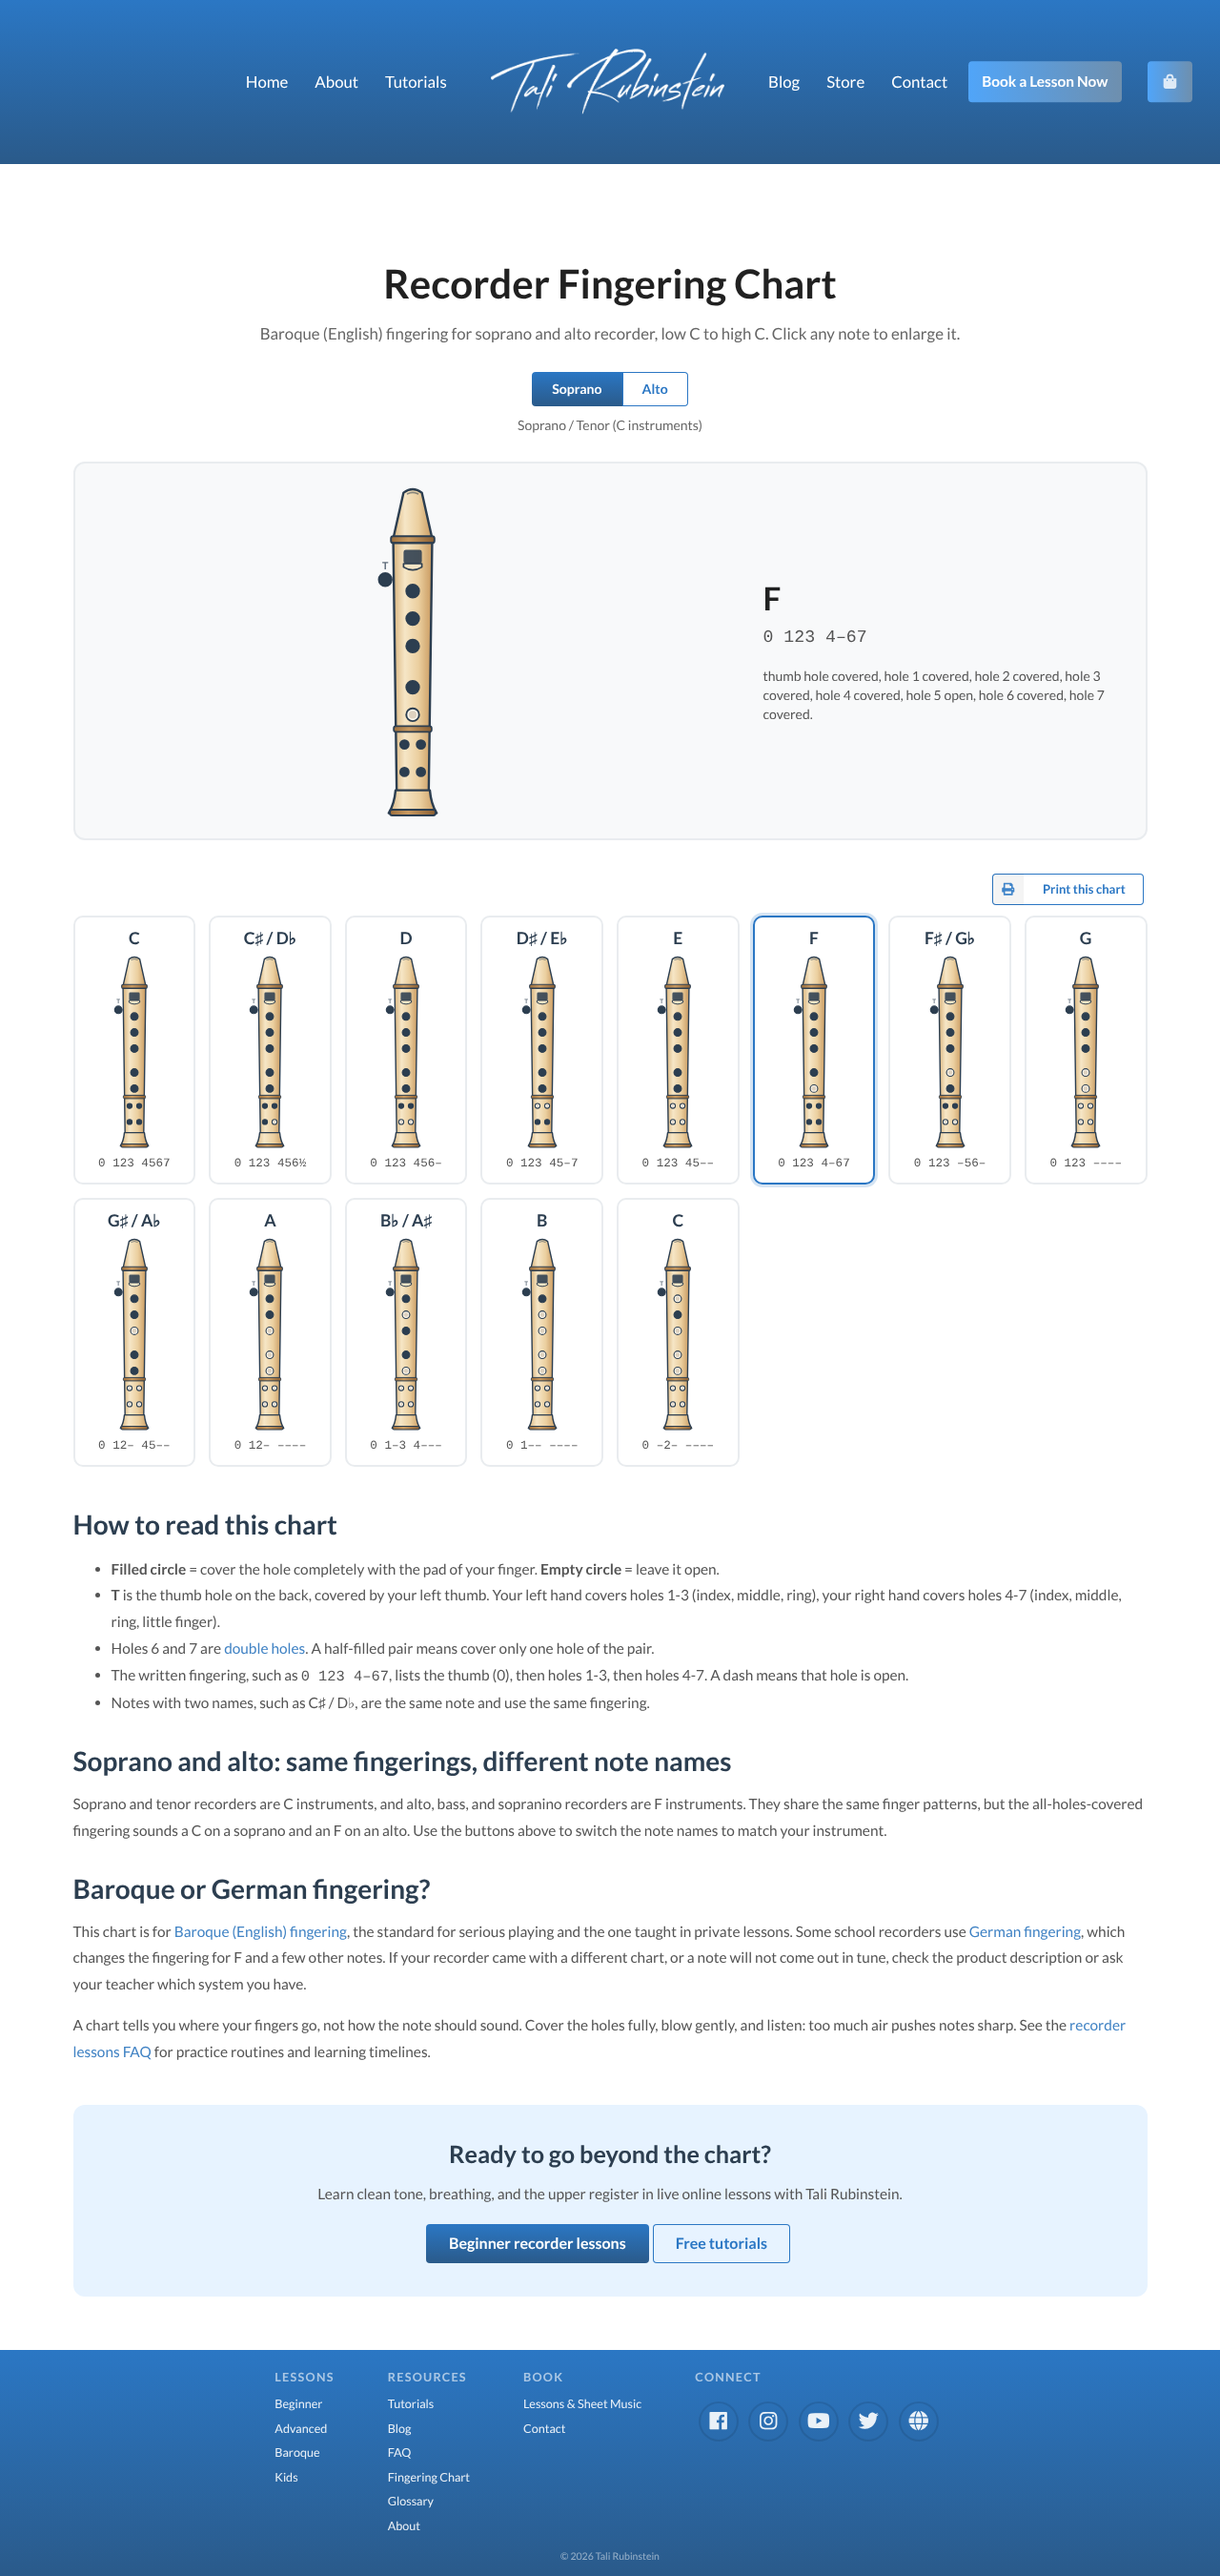
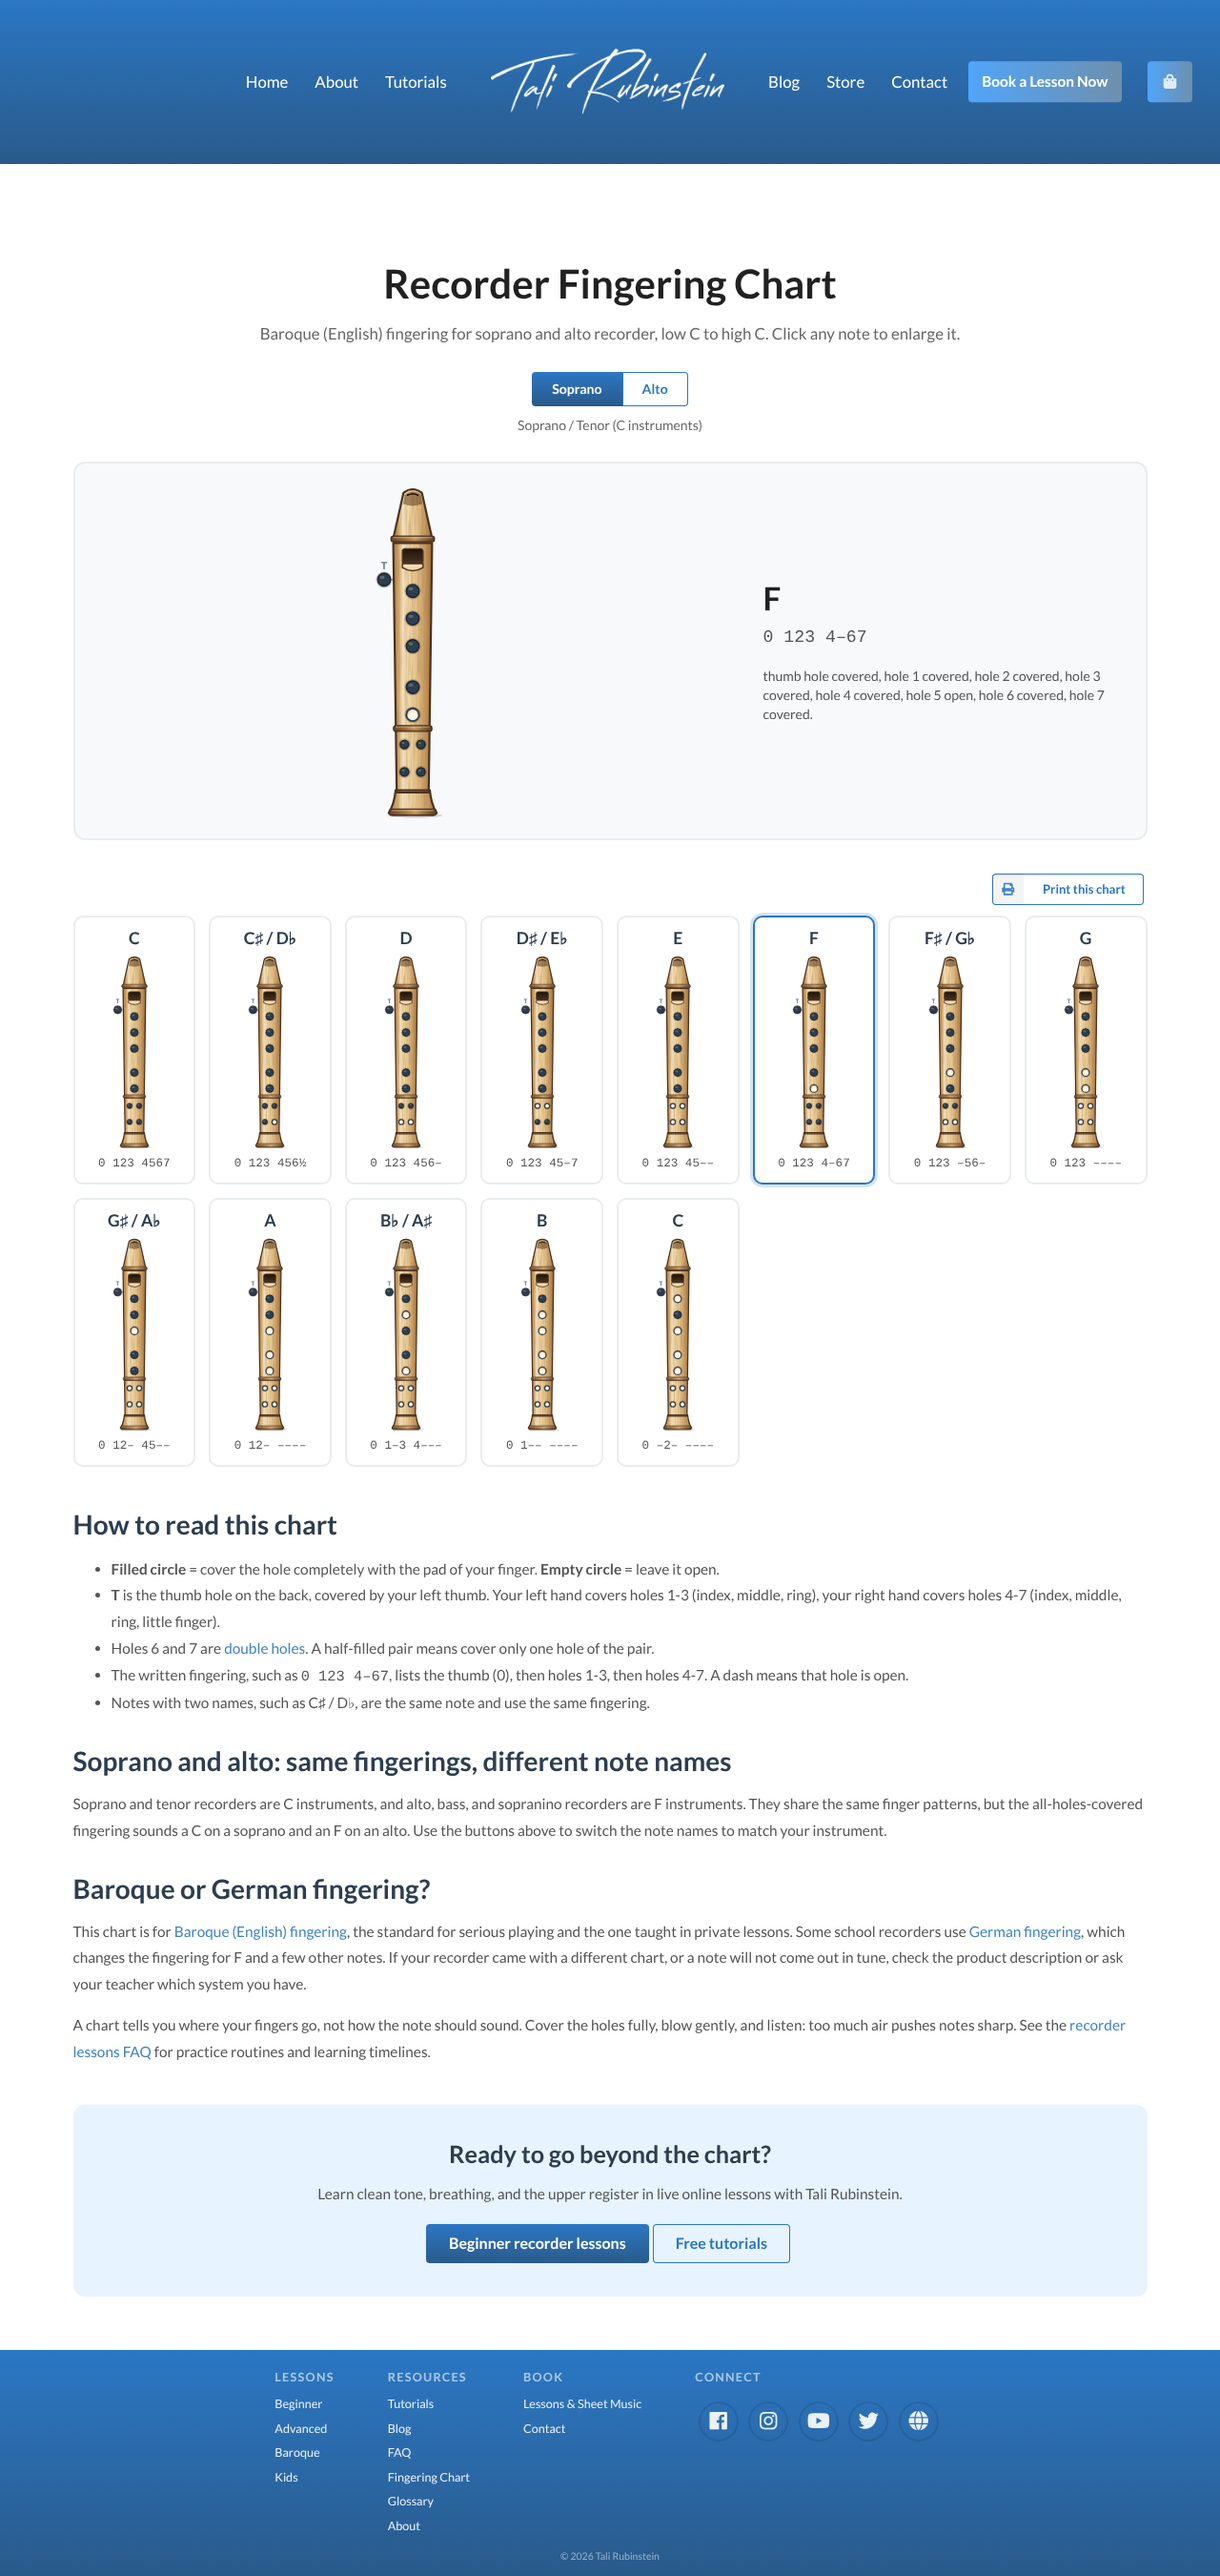
Fingering chart: photographic wooden recorder illustration
Render the recorder diagram to look like a real turned-wood instrument:
grain, gloss highlight down the tube, beaded joint rings, a proper window and
labium, bevelled tone holes, and a contact shadow. Open holes are a clear light
ring and covered holes a solid pad so the chart still reads at a glance.
Regenerate the PR screenshots.

Claude-Session: https://claude.ai/code/session_01WMMpbvpRW59aVS4mF6u1VK

diff --git a/components/RecorderDiagram.js b/components/RecorderDiagram.js
@@ -4,35 +4,64 @@ import React, { useId } from 'react';
 // top, then the body with seven finger holes, a flared bell at the foot, and the
 // thumb hole (which is on the BACK of a real instrument) drawn off to the left.
 //
+// It is an illustration, rendered to look like a real instrument: turned
+// boxwood/maple with grain, a soft highlight down the tube, beaded rings and
+// bevelled tone holes.
+//
 // `holes` is 8 characters: thumb, then holes 1-7 (see data/fingerings.js).
 //   '#' covered   '.' open   '/' half covered (one hole of a double pair)
 // Holes 6 and 7 are the double holes on a real recorder, drawn as two small
 // holes side by side.
 
-const INK = '#2c3e50'; // site text colour, used for outlines and covered holes
+const INK = '#2c3e50'; // site text colour, used for covered holes and the label
+const EDGE = '#4a3220'; // dark walnut outline for the instrument itself
 const W = 100;
 const H = 292;
 const CX = 50;
 
 // Vertical centres of finger holes 1..7
 const HOLE_Y = [94, 118, 142, 178, 202, 228, 252];
-const THUMB = { x: 26, y: 84 };
+const THUMB = { x: 25, y: 84 };
 
 const R_SINGLE = 5.6;
 const R_DOUBLE = 3.7;
 const DOUBLE_OFFSET = 7.2;
 
+// Outlines (shared by the fill, the grain clip and the highlight)
+const HEAD = 'M42 8 Q50 2 58 8 L67 48 L33 48 Z';
+const BODY = 'M33 52 L67 52 L64 270 L36 270 Z';
+const BELL = 'M35 268 L65 268 Q66 280 71 288 L29 288 Q34 280 35 268 Z';
+
 const RecorderDiagram = ({ holes, label, width = 84 }) => {
   const uid = useId().replace(/:/g, '');
-  const wood = `wood-${uid}`;
-  const rim = `rim-${uid}`;
+  const id = (n) => `${n}-${uid}`;
   const [thumb, ...fronts] = holes.split('');
 
+  // A tone hole: bevelled rim, empty ring when open, solid pad when covered.
   const hole = (key, cx, cy, r, closed) => (
     <g key={key}>
-      <circle cx={cx} cy={cy} r={r} fill={closed ? INK : '#fffaf0'} stroke={INK} strokeWidth="1.6" />
-      {/* a little depth so an open hole reads as a hole, not a blank */}
-      {!closed && <circle cx={cx} cy={cy} r={r - 2.2} fill="#8a6a45" opacity="0.28" />}
+      {/* soft shadow around the rim so the hole sits in the wood */}
+      <circle cx={cx} cy={cy} r={r + 1.6} fill="#5b3b1c" opacity="0.28" />
+      {closed ? (
+        <>
+          <circle cx={cx} cy={cy} r={r} fill={INK} stroke="#1b2733" strokeWidth="1.2" />
+          <ellipse cx={cx - r * 0.3} cy={cy - r * 0.35} rx={r * 0.38} ry={r * 0.26} fill="#fff" opacity="0.22" />
+        </>
+      ) : (
+        <>
+          <circle cx={cx} cy={cy} r={r} fill={`url(#${id('bore')})`} stroke={INK} strokeWidth="1.6" />
+          <path d={`M ${cx - r + 1} ${cy - 0.4} A ${r - 1} ${r - 1} 0 0 1 ${cx + r - 1} ${cy - 0.4}`} fill="none" stroke="#5b3b1c" strokeOpacity="0.35" strokeWidth="1.1" strokeLinecap="round" />
+        </>
+      )}
+    </g>
+  );
+
+  // A turned bead/ring around the tube, with a highlight and a shadow line.
+  const ring = (y, x, w, h = 5) => (
+    <g>
+      <rect x={x} y={y} width={w} height={h} rx="2.2" fill={`url(#${id('ring')})`} stroke={EDGE} strokeWidth="1.1" />
+      <line x1={x + 2} y1={y + 1.2} x2={x + w - 2} y2={y + 1.2} stroke="#fff" strokeOpacity="0.45" strokeWidth="0.7" />
+      <line x1={x + 2} y1={y + h - 1} x2={x + w - 2} y2={y + h - 1} stroke="#000" strokeOpacity="0.25" strokeWidth="0.7" />
     </g>
   );
 
@@ -46,44 +75,98 @@ const RecorderDiagram = ({ holes, label, width = 84 }) => {
       style={{ display: 'block', margin: '0 auto' }}
     >
       <defs>
-        {/* turned-wood shading across the width of the tube */}
-        <linearGradient id={wood} x1="0" x2="1" y1="0" y2="0">
-          <stop offset="0" stopColor="#d9b47d" />
-          <stop offset="0.3" stopColor="#f6e6c6" />
-          <stop offset="0.65" stopColor="#ebcf9f" />
-          <stop offset="1" stopColor="#c99a60" />
+        {/* boxwood/maple, shaded across the tube so it reads as a cylinder */}
+        <linearGradient id={id('wood')} x1="0" x2="1" y1="0" y2="0">
+          <stop offset="0" stopColor="#a8773f" />
+          <stop offset="0.14" stopColor="#d6a967" />
+          <stop offset="0.38" stopColor="#f2d9a6" />
+          <stop offset="0.62" stopColor="#e3c088" />
+          <stop offset="0.88" stopColor="#bd8a50" />
+          <stop offset="1" stopColor="#8d6232" />
         </linearGradient>
-        <linearGradient id={rim} x1="0" x2="1" y1="0" y2="0">
-          <stop offset="0" stopColor="#9c6f3d" />
-          <stop offset="0.4" stopColor="#c99a60" />
-          <stop offset="1" stopColor="#8a5f33" />
+        {/* darker turned rings */}
+        <linearGradient id={id('ring')} x1="0" x2="1" y1="0" y2="0">
+          <stop offset="0" stopColor="#6d4724" />
+          <stop offset="0.35" stopColor="#a8773f" />
+          <stop offset="0.55" stopColor="#c99a60" />
+          <stop offset="1" stopColor="#5e3d1e" />
         </linearGradient>
+        {/* open tone hole: reads as an empty ring (light centre, soft inner shadow) */}
+        <radialGradient id={id('bore')} cx="0.5" cy="0.6" r="0.62">
+          <stop offset="0" stopColor="#fffdf6" />
+          <stop offset="0.7" stopColor="#f6ecd6" />
+          <stop offset="1" stopColor="#c9b48f" />
+        </radialGradient>
+        {/* glossy highlight streak down the tube */}
+        <linearGradient id={id('gloss')} x1="0" x2="1" y1="0" y2="0">
+          <stop offset="0" stopColor="#fff" stopOpacity="0" />
+          <stop offset="0.5" stopColor="#fff" stopOpacity="0.55" />
+          <stop offset="1" stopColor="#fff" stopOpacity="0" />
+        </linearGradient>
+        {/* window interior: dark bore falling away */}
+        <linearGradient id={id('window')} x1="0" x2="0" y1="0" y2="1">
+          <stop offset="0" stopColor="#1c130b" />
+          <stop offset="1" stopColor="#4a3523" />
+        </linearGradient>
+        {/* wood grain: stretched noise, running along the tube */}
+        <filter id={id('grain')} x="0" y="0" width="100%" height="100%">
+          <feTurbulence type="fractalNoise" baseFrequency="0.55 0.035" numOctaves="2" seed="7" result="n" />
+          <feColorMatrix
+            in="n"
+            type="matrix"
+            values="0 0 0 0 0.36  0 0 0 0 0.22  0 0 0 0 0.09  0 0 0 1.5 -0.55"
+          />
+        </filter>
+        <clipPath id={id('shape')}>
+          <path d={HEAD} />
+          <path d={BODY} />
+          <path d={BELL} />
+        </clipPath>
       </defs>
 
-      {/* Head joint: beak narrowing to the top */}
-      <path d="M42 8 Q50 2 58 8 L67 48 L33 48 Z" fill={`url(#${wood})`} stroke={INK} strokeWidth="2" strokeLinejoin="round" />
-      {/* windway slit at the very tip of the beak */}
-      <path d="M45.5 9 Q50 6.6 54.5 9" fill="none" stroke={INK} strokeWidth="1.4" strokeLinecap="round" opacity="0.55" />
+      {/* contact shadow so it sits on the card */}
+      <ellipse cx="52" cy="290" rx="24" ry="2.2" fill="#000" opacity="0.14" />
+
+      {/* Wood fill for head, body and bell */}
+      <g strokeLinejoin="round">
+        <path d={HEAD} fill={`url(#${id('wood')})`} />
+        <path d={BODY} fill={`url(#${id('wood')})`} />
+        <path d={BELL} fill={`url(#${id('wood')})`} />
+      </g>
+
+      {/* Grain and gloss, clipped to the instrument */}
+      <g clipPath={`url(#${id('shape')})`}>
+        <rect x="26" y="0" width="48" height={H} filter={`url(#${id('grain')})`} opacity="0.55" />
+        <rect x="38" y="0" width="7" height={H} fill={`url(#${id('gloss')})`} />
+      </g>
+
+      {/* Outlines */}
+      <g fill="none" stroke={EDGE} strokeWidth="1.8" strokeLinejoin="round">
+        <path d={HEAD} />
+        <path d={BODY} />
+        <path d={BELL} />
+      </g>
+
+      {/* Beak: lip at the tip and the sloped cut the player's mouth sits on */}
+      <path d="M43 9.5 Q50 4.6 57 9.5 L58.4 18 Q50 21 41.6 18 Z" fill="#5e3d1e" opacity="0.55" />
+      <path d="M45.5 10.2 Q50 7.6 54.5 10.2" fill="none" stroke="#1c130b" strokeWidth="1.3" strokeLinecap="round" />
 
       {/* Block ring where the beak meets the head */}
-      <rect x="31" y="46" width="38" height="6" rx="2" fill={`url(#${rim})`} stroke={INK} strokeWidth="1.6" />
-
-      {/* Body (middle joint then foot), gently tapering toward the foot */}
-      <path d="M33 52 L67 52 L64 270 L36 270 Z" fill={`url(#${wood})`} stroke={INK} strokeWidth="2" strokeLinejoin="round" />
+      {ring(46, 31, 38)}
 
       {/* Window and labium (the sharp edge the air splits on) */}
-      <rect x="42" y="58" width="16" height="12" rx="2" fill={INK} opacity="0.88" />
-      <path d="M42 70 L58 70 L58 73 Q50 78 42 73 Z" fill="#f6e6c6" stroke={INK} strokeWidth="1.4" strokeLinejoin="round" />
+      <rect x="41" y="57" width="18" height="13" rx="2.4" fill={`url(#${id('window')})`} stroke={EDGE} strokeWidth="1.2" />
+      <path d="M41 70 L59 70 L59 73.4 Q50 79 41 73.4 Z" fill="#f2d9a6" stroke={EDGE} strokeWidth="1.2" strokeLinejoin="round" />
+      <line x1="43" y1="71.6" x2="57" y2="71.6" stroke="#fff" strokeOpacity="0.55" strokeWidth="0.7" />
 
       {/* Joint ring between the middle joint and the foot */}
-      <rect x="33.4" y="212" width="33.2" height="5" rx="2" fill={`url(#${rim})`} stroke={INK} strokeWidth="1.4" />
+      {ring(211.5, 33.2, 33.6)}
 
       {/* Flared bell at the foot */}
-      <path d="M35 268 L65 268 Q66 280 71 288 L29 288 Q34 280 35 268 Z" fill={`url(#${wood})`} stroke={INK} strokeWidth="2" strokeLinejoin="round" />
-      <rect x="30" y="285" width="40" height="5" rx="2" fill={`url(#${rim})`} stroke={INK} strokeWidth="1.6" />
+      {ring(284.5, 29.5, 41, 5.5)}
 
       {/* Thumb hole (back of the instrument), with a short pointer to the body */}
-      <line x1={THUMB.x + 6} y1={THUMB.y} x2="34" y2={THUMB.y} stroke={INK} strokeWidth="1.2" strokeDasharray="2 2" opacity="0.6" />
+      <line x1={THUMB.x + 6} y1={THUMB.y} x2="34" y2={THUMB.y} stroke={INK} strokeWidth="1.2" strokeDasharray="2 2" opacity="0.55" />
       {hole('thumb', THUMB.x, THUMB.y, 5.6, thumb === '#')}
       <text x={THUMB.x} y={THUMB.y - 9} fontSize="9" fontWeight="700" textAnchor="middle" fill={INK} opacity="0.75">
         T
